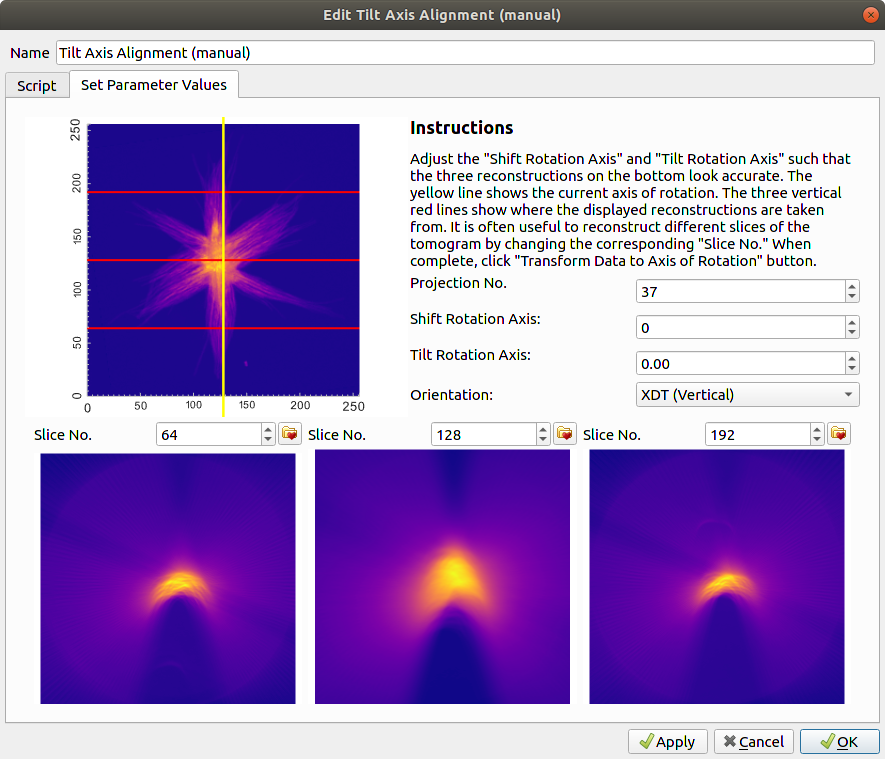
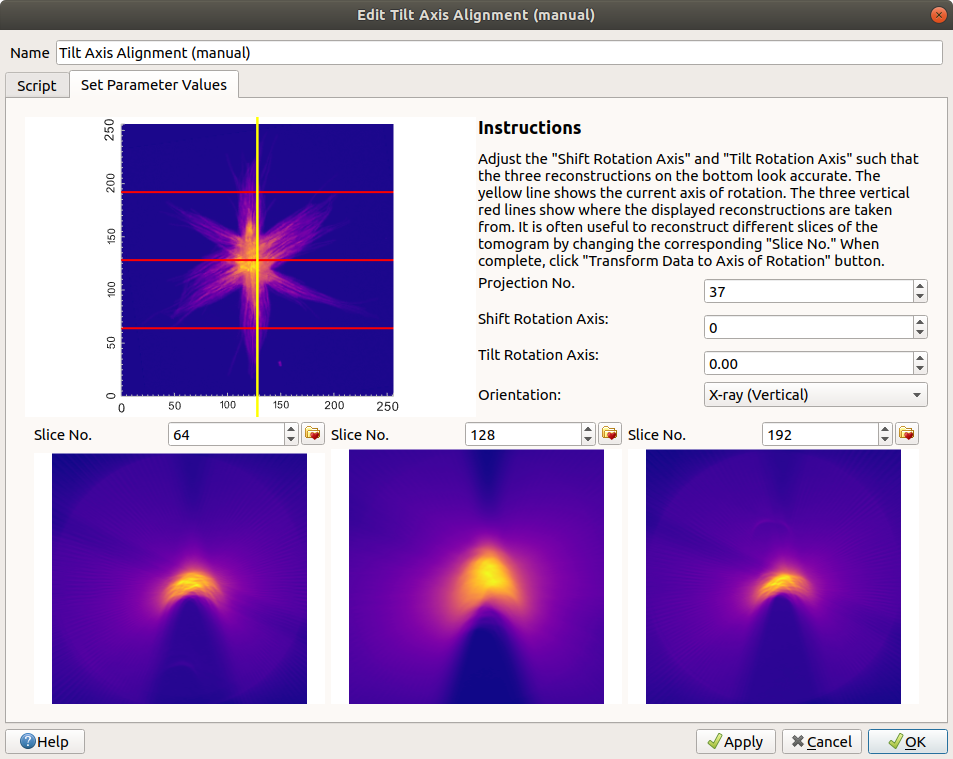
Use "X-ray" instead of "XDT" in alignment docs
This was changed in the main program, so we need to update it in the
docs as well.

diff --git a/docs/alignment.md b/docs/alignment.md
@@ -99,7 +99,7 @@ It is possible to select independent color maps for the reconstruction previews.
 
 Additionally, it is possible to align a tilt series that uses a
 vertical axis of rotation rather than a horizontal one.
-This can be done by selecting "XDT (Vertical)" from the "Orientation"
+This can be done by selecting "X-ray (Vertical)" from the "Orientation"
 combo box. The lines will then be rotated, and the tilt series may be
 manually aligned as before.
 
